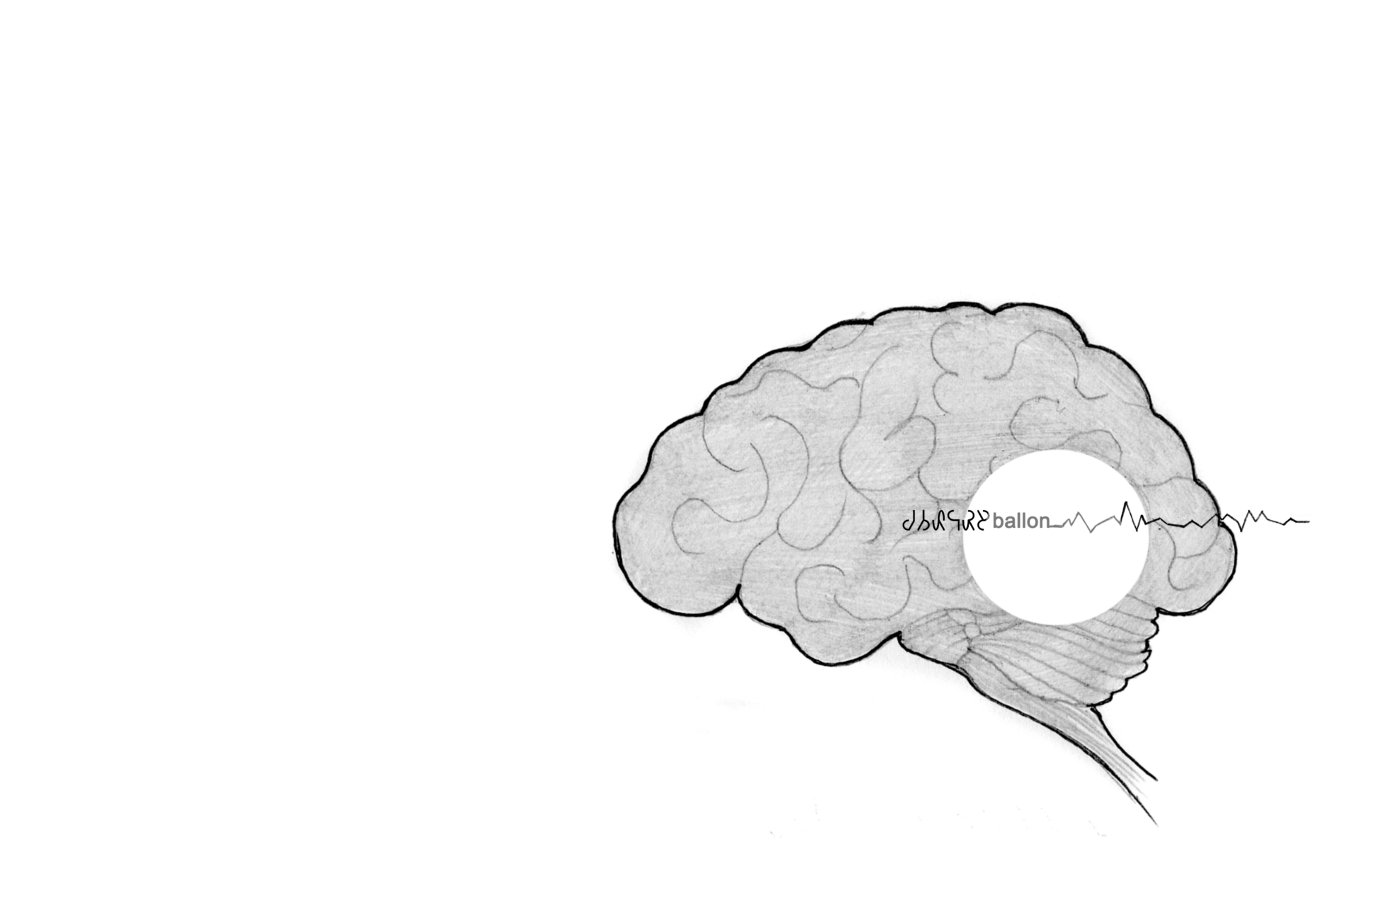
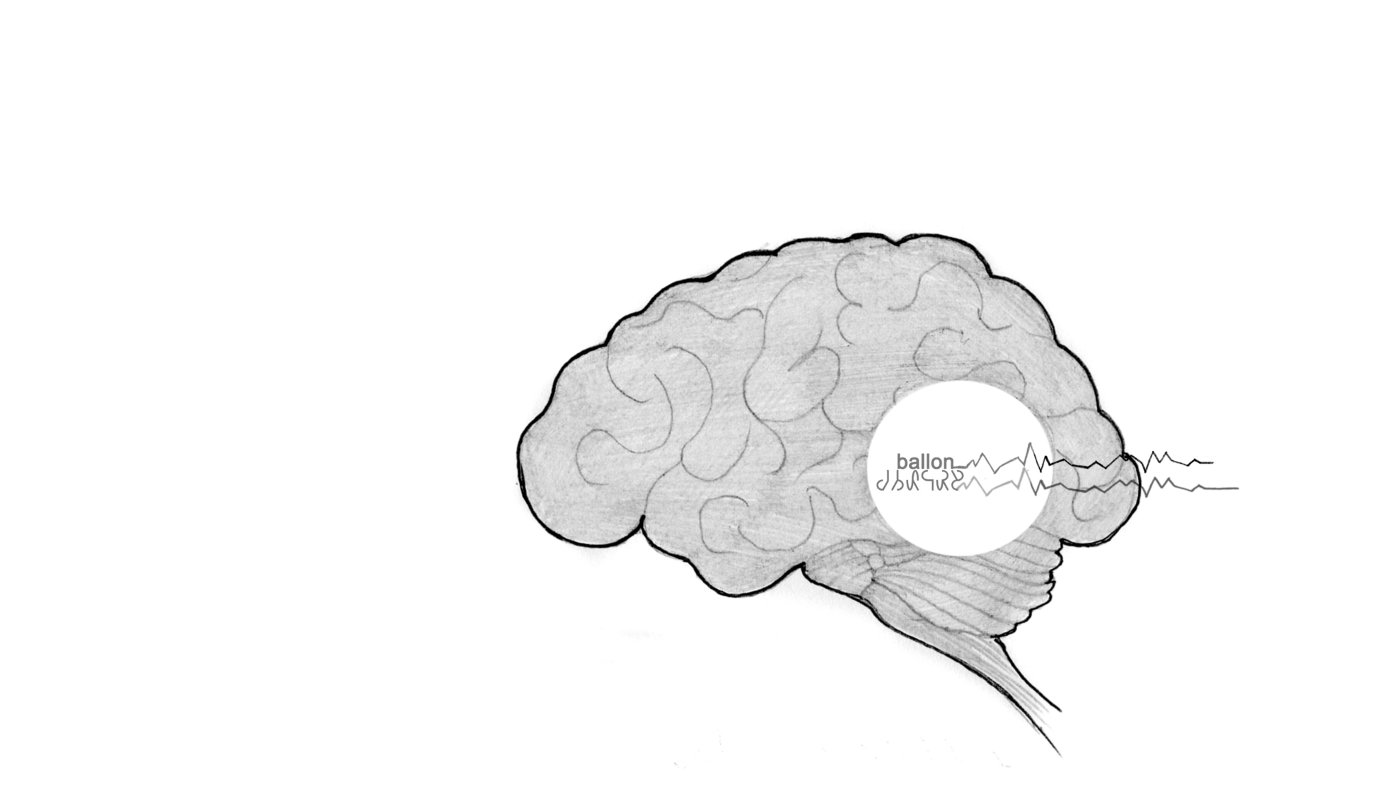
Updated images, changed color of letters and highlighting, removed ' research ' from menu

Changed region(s): [[0.3715, 0.2717, 0.9287, 0.9358]]

diff --git a/index.html b/index.html
@@ -58,7 +58,7 @@
                     <span class="icon-bar"></span>
                     <span class="icon-bar"></span>
                 </button>
-                <a class="navbar-brand" href="#intro"><i class="fa fa-home fa-fw"></i>&nbsp;Gorka.science</a>
+                <a class="navbar-brand" href="#intro"><i class="fa fa-home fa-fw"></i>&nbsp; Gorka.science </a>
             </div>
 
             <!-- Collect the nav links, forms, and other content for toggling -->
@@ -71,8 +71,8 @@
                     <li class="dropdown">
                         <a href="#" class="dropdown-toggle" data-toggle="dropdown" role="button" aria-expanded="false">Menu<span class="caret"></span></a>
                         <ul class="dropdown-menu" role="menu">
-                            <li><a href="#research"><i class="fa fa-lightbulb-o fa-fw"></i>&nbsp;Research</a>
-                            </li>
+                           <!-- <li><a href="#research"><i class="fa fa-lightbulb-o fa-fw"></i>&nbsp;Research</a>
+                            </li>-->
                             <li><a href="#publications"><i class="fa fa-book fa-fw"></i>&nbsp;Publications</a>
                             </li>
                             <li><a href="#presentations"><i class="fa fa-desktop fa-fw"></i>&nbsp;Presentations</a>
@@ -117,20 +117,24 @@
             <div class="container">
                 <div class="row">
                     <div class="col-sm-8">
-                        <strong><h1 class="wow fadeInUp" data-wow-delay=".8s">Gorka Fraga González</h1></strong>
+                      <h1 class="wow fadeInUp" data-wow-delay=".8s">  Gorka <br> Fraga González </h1>
                         <h4 class="wow fadeInUp lead smoke" data-wow-delay=".4s">
-                             <font color="black" size="3">
-                            <h3>Reading</h3>
-								 <li>Fluent reading acquisition</li>
+                            <font color="black" size="5">
+                            <i> Reading </i></font>
+							<font color="black" size="3">	 
+                                 <li>Fluent reading acquisition</li>
 								 <li>Dyslexia</li>
                                 <li>Visual word recognition</li>
+                            </font>
                             <br>
-                            <h3>EEG</h3>
+                          <font color="black" size="5">
+                            <i> EEG </i></font>
+                            <font color="black" size="3">
                     		    <li>Event-related potentials</li>
                                 <li>Resting-state functional connectivity</li>
 								<li>Graph network analysis</li>
-                            
-                                </font>
+                            </font>
+                                
 							</h4>
                         <a href="#menu" class="btn-fillup btn-strong-style dark deep-orange wow fadeInUp"  data-wow-delay="1.2s"  > Meet me! </a>
                     </div>
@@ -141,11 +145,11 @@
 
     <!-- 	MAIN MENU	 -->
     <section id="menu" class="hero-brain-ntw parallax wh-twothirds" data-bottom-top="background-position: 50% 5%;" data-top-bottom="background-position: 50% 65%;">
-        <div class="section-overlay-soft">
+        <div class="section-overlay-light">
             <div class="float-content">
                 <div class="container">
                     <div class="row" style="color: #E64A19;">
-                        <div class="col-md-4 col-xs-6">
+                        <div class="col-md-6 col-xs-9">
                             <a href="#publications" class="deep-orange-color">
                                 <div id="categories-link" class="media divide-sm">
                                     <div class="pull-left icon icon-md deep-orange">
@@ -159,7 +163,7 @@
                                 </div>
                             </a>
                         </div>
-                        <div class="col-md-4 col-xs-6">
+                        <div class="col-md-6 col-xs-9">
                             <div class="media divide-sm">
                                 <a href="#presentations" class="deep-orange-color">
                                     <div class="pull-left icon icon-md deep-orange">
@@ -175,7 +179,7 @@
                             </div>
                         </div>
                         <!-- 							<div class="clearfix"></div> -->
-                        <div class="col-md-4 col-xs-6">
+                       <!-- <div class="col-md-4 col-xs-6">
                             <div class="media divide-sm">
                                 <a href="files/CV.pdf" class="deep-orange-color">
                                     <div class="pull-left icon icon-md deep-orange">
@@ -183,7 +187,7 @@
                                     </div>
                                     <div class="media-body">
                                         <div class="divide-xxs"></div>
-                                        <!--
+                                        
                                         <h3>CV</h3>
                                     </div>
                                 </a>
@@ -198,13 +202,13 @@
                                     </div>
                                     <div class="media-body">
                                         <div class="divide-xxs"></div>
--->
+
                                         <h3>Research</h3>
                                     </div>
                                 </a>
                             </div>
-                        </div>
-                        <div class="col-md-4 col-xs-6">
+                        </div>-->
+                        <div class="col-md-6 col-xs-8">
                             <div class="media divide-sm">
                                 <a href="#posters" class="deep-orange-color">
                                     <div class="pull-left icon icon-md deep-orange">
@@ -217,7 +221,7 @@
                                 </a>
                             </div>
                         </div>
-                        <div class="col-md-4 col-xs-6">
+                        <div class="col-md-6 col-xs-6">
                             <div class="media divide-sm">
                                 <a href="#links" class="deep-orange-color">
                                     <div class="pull-left icon icon-md deep-orange">
@@ -234,7 +238,7 @@
                 </div>
             </div>
         </div>
-    </section>
+     </section>
     <!-- 	CATEGORIES	 -->
 <!--
     <section id="categories" class="white-bg">
@@ -268,8 +272,12 @@
 
 
     <!--	PUBLICATIONS HEADER	  -->
+    <br>
+    <br>
+    <br>
+    <br>
     <section class="hero-publications parallax wh-onethird" data-bottom-top="background-position: 50% 25%;" data-top-bottom="background-position: 50% 75%;">
-        <div class="section-overlay-soft">
+        <div class="section-overlay-hard">
             <div class="float-content">
                 <div class="container">
                     <div id="publications" class="row">
@@ -608,7 +616,7 @@
                             </div>
                         </div>
                         <div class="col-xs-12 text-center">
-                            <a href="mailto:G.FragaGonzalez@uva.nl"><h4>G.FragaGonzalez@uva.nl</h4></a>
+                            <a href="mailto:G.FragaGonzalez@uva.nl"><h4> <font color=#E64A19> G.FragaGonzalez@uva.nl </font></h4></a>
                         </div>
                     </div>
                 </div>

diff --git a/css/style.css b/css/style.css
@@ -104,7 +104,7 @@ p.lead {
 
 a,
 a:hover {
-	color: #FFF;
+	color: black;
 	-webkit-transition: 0.2s;
 	-moz-transition: 0.2s;
 	transition: 0.2s;
@@ -195,7 +195,7 @@ a:focus {
 /* Theme Two */
 
 .theme-two h1 {
-	font-family:  Futura, 'Futura', sans-serif;
+	font-family: 'Trebuchet MS', sans-serif;
 	font-weight: 300;
 	margin: 0 0 15px 0;
 }
@@ -204,7 +204,7 @@ a:focus {
 .theme-two h3,
 .theme-two h4,
 .theme-two h5 {
-	font-family: 'Futura', sans-serif;
+	font-family: 'Trebuchet MS', sans-serif;
 	font-weight: 100;
 	margin: 0 0 15px 0;
 }
@@ -1162,7 +1162,7 @@ article {
 }
 
 .media {
-	margin-top: 0;
+	margin-top: 10;
 }
 
 .media .pull-left {
@@ -1317,7 +1317,7 @@ ul,
 }
 
 .section-overlay-soft {
-	background: rgba(0, 0, 0, .65);
+	background: rgba(0, 0, 0, .1);
 }
 
 .section-overlay-hard {
@@ -2023,7 +2023,7 @@ img.grayscale:hover {
 #slide-0 {
 	background: #000 url("../img/Brain_pencil.jpg") center no-repeat;
 	-webkit-background-size: cover;
-	background-size: cover;
+   	background-size: cover;
 }
 
 #slide-1 {
@@ -2063,14 +2063,14 @@ img.grayscale:hover {
 }
 
 .hero-publications {
-	background-image: url("../img/book_blur.png");
-	background-color: rgb(255, 255, 255, 1);
+	background-image: url("../img/book_shred.jpg");
+/*	background-color: rgb(255, 255, 255, 1);*/
 	-webkit-background-size: ;
 	background-size: cover;
 }
 
 .hero-presentations {
-	background-image: url("../img/Cajal_cortex_drawings2_large.png");
+	background-image: url("../img/book_shred.jpg");
 	-webkit-background-size: cover;
 	background-size: cover;
 }
@@ -2082,15 +2082,15 @@ img.grayscale:hover {
 }
 
 .hero-posters {
-	background-image: url("../img/Cajal_cortex_drawings3_large.png");
+	background-image: url("../img/book_shred.jpg");
 	-webkit-background-size: cover;
 	background-size: cover;
 }
 
 .hero-brain-ntw {
-	background-image: url("../img/book_shred.jpg");
+	background-image:  url("../img/face_pencil.jpg");
 	-webkit-background-size: cover;
-	background-size: cover;
+	background-size: cover;  
 }
 /* --- Bootstrap carousel --- */
 
@@ -2866,6 +2866,7 @@ blockquote.pull-right {
 .navbar-brand,
 .navbar-nav a {
 	color: #E64A19;
+ 
 }
 
 .navbar-transparent {
